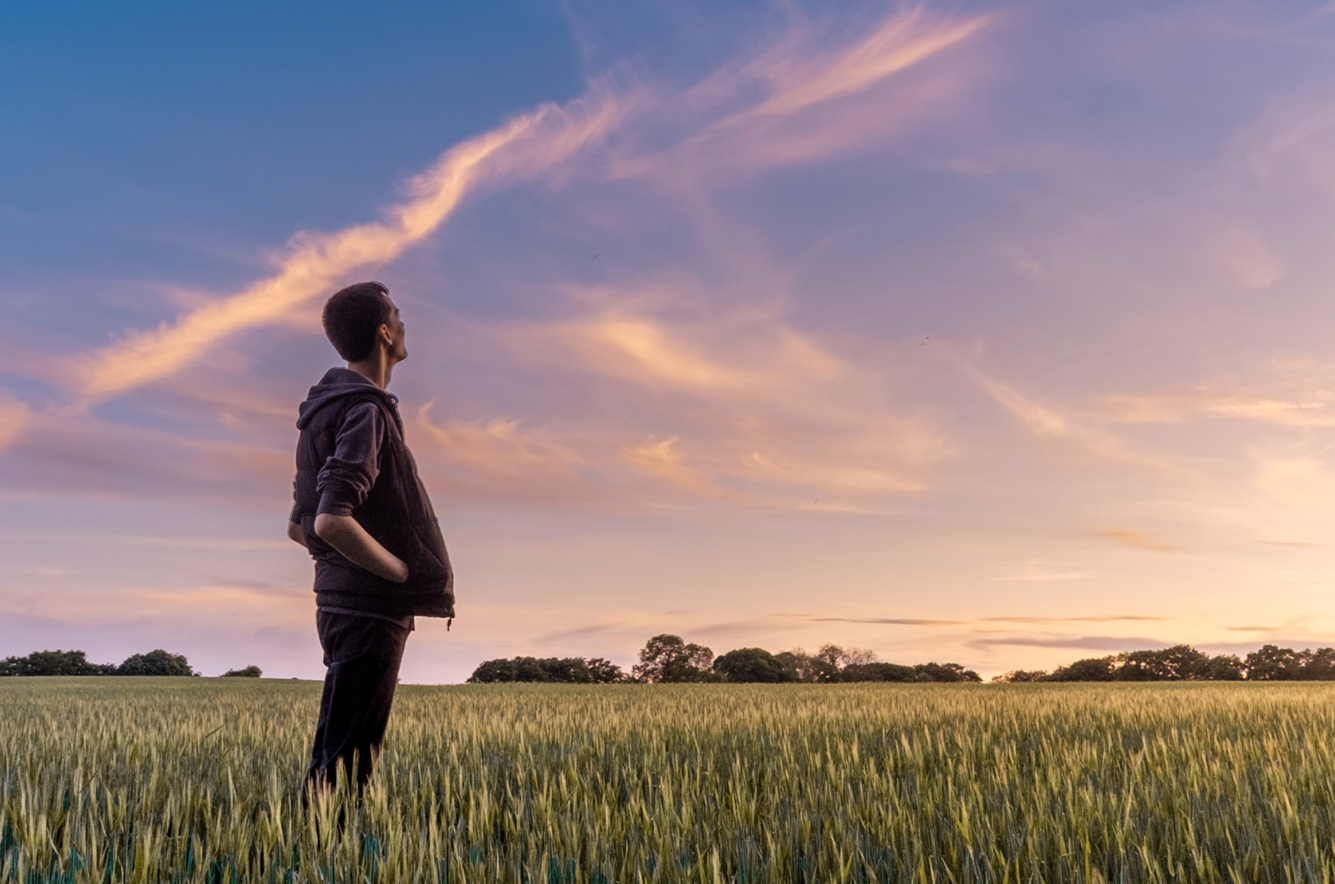
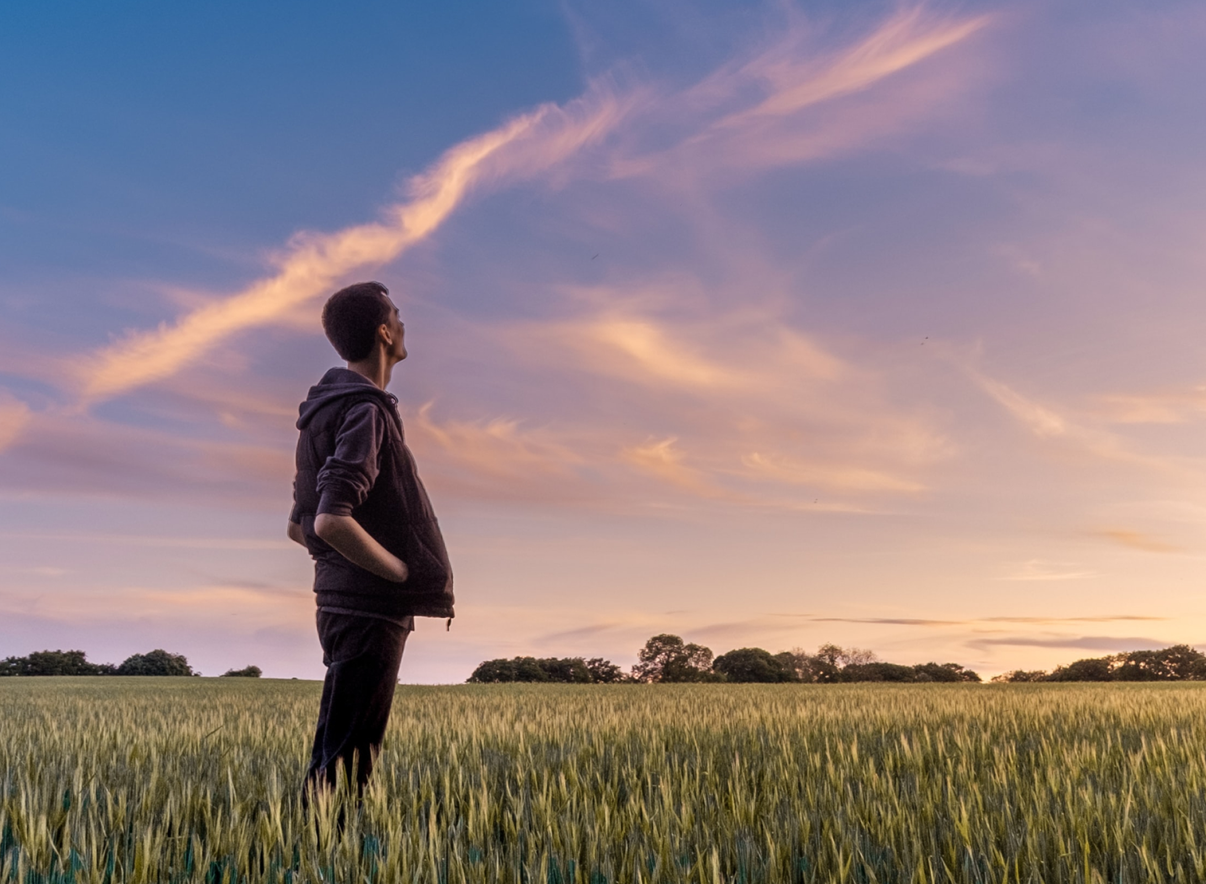
Update

diff --git a/lib/portfolio-projects.ts b/lib/portfolio-projects.ts
@@ -20,7 +20,7 @@ export const HOME_PROJECT_CARDS: HomeProjectCard[] = [
     title: "AI Labs",
     description:
       "Dedicated space for exploring emerging AI technologies, experimenting with new creative workflows, and documenting studies that expand modern design.",
-    image: "/images/thumb-large-ai experiments.png",
+    image: "/images/ailabs-thumb.png",
     ctaLabel: "Coming Soon",
   },
   {
@@ -34,14 +34,14 @@ export const HOME_PROJECT_CARDS: HomeProjectCard[] = [
     title: "ServSafe",
     description:
       "Industry standard food safety training and certification platform strengthened through clearer learning flows, improved usability and more intuitive training experiences.",
-    image: "/images/nationalrestaurantassociation-thumb.png",
+    image: "/images/servsafe-thumb.png",
     ctaLabel: "Coming soon",
   },
   {
     title: "Microsoft HITS",
     description:
       "Research repository platform focused on streamlining operational workflows, improving clarity, usability, and interaction patterns to help teams work more efficiently.",
-    image: "/images/microsofthits-thumb.png",
+    image: "/images/microsoft-thumb.png",
     href: "/projects/project-two",
   },
   {

diff --git a/components/project-card/project-card.tsx b/components/project-card/project-card.tsx
@@ -37,6 +37,9 @@ export default function ProjectCard({
         src={image}
         alt={title}
         fill
+        // Thumbnails are swapped frequently; bypass Next's image optimizer cache
+        // so updates to same-filename assets show immediately.
+        unoptimized
         className="object-cover object-center"
         sizes="(max-width: 768px) 100vw, 50vw"
       />
